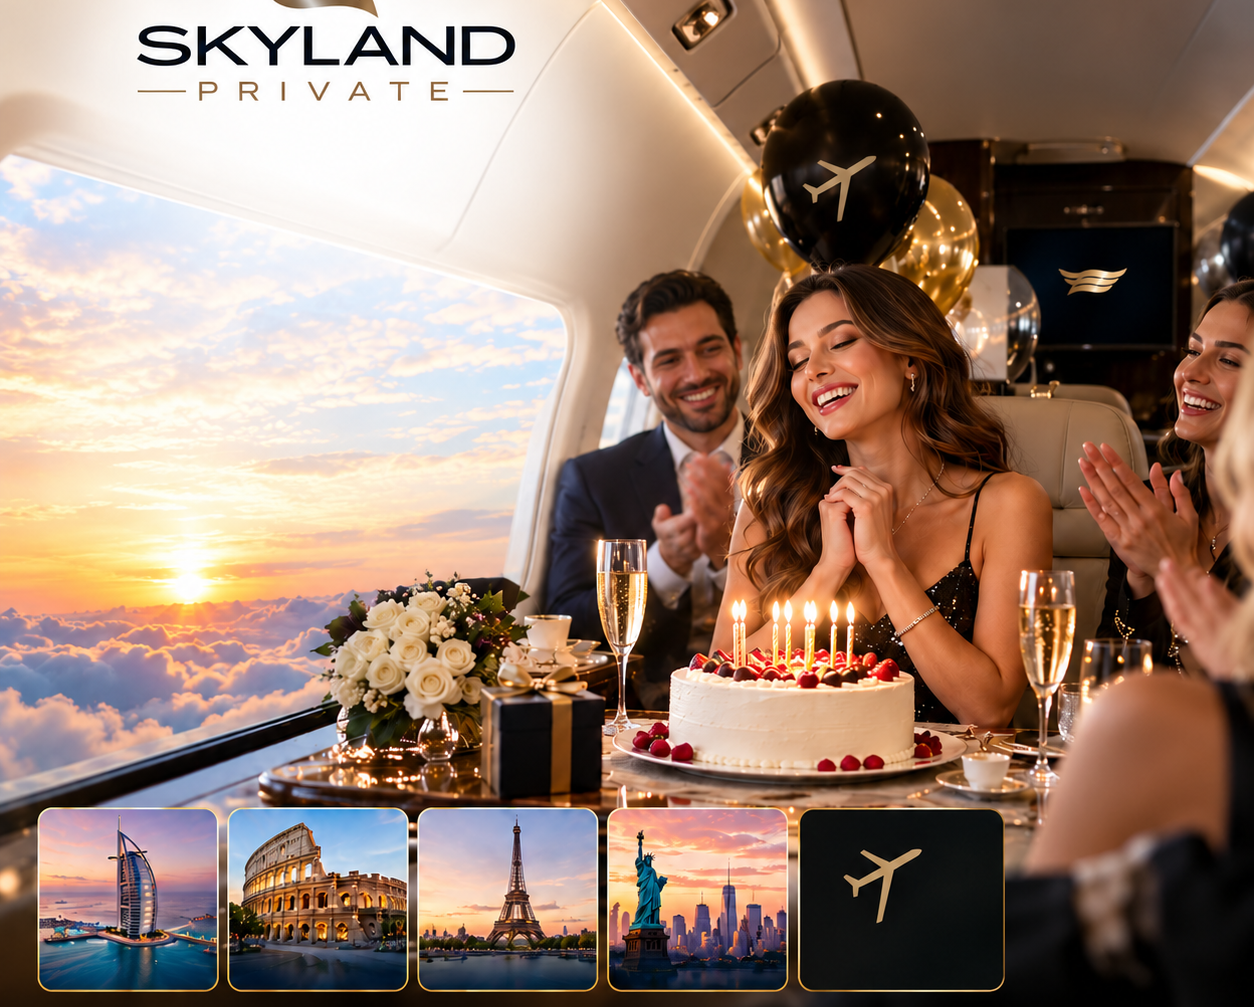
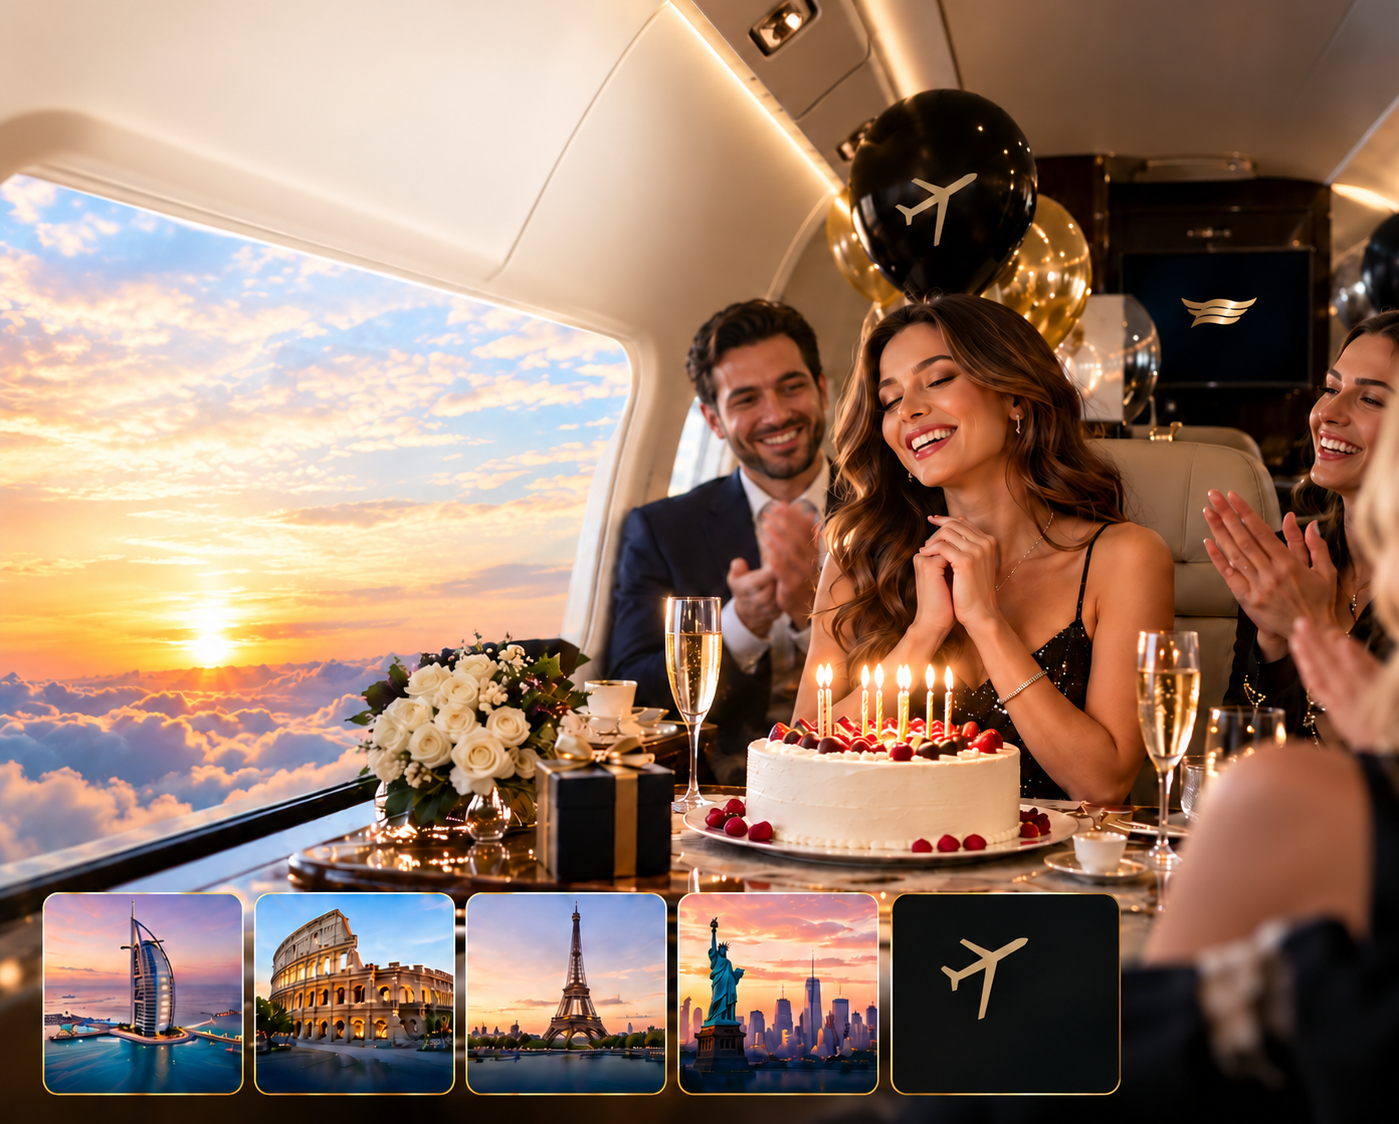
Add files via upload

diff --git a/skylandprivatedays.html b/skylandprivatedays.html
@@ -2,7 +2,7 @@
 <html lang="en">
 <head>
 <meta charset="utf-8">
-<meta name="viewport" content="width=device-width,initial-scale=1,viewport-fit=cover">
+<meta name="viewport" content="width=device-width,initial-scale=1,maximum-scale=1,user-scalable=no,viewport-fit=cover">
 <meta name="description" content="Skyland Private Days — private jet experiences for birthdays, proposals, anniversaries, honeymoons and special celebrations.">
 <title>Skyland Private Days | Special Occasions</title>
 <link rel="preconnect" href="https://fonts.googleapis.com">
@@ -27,7 +27,7 @@
 .trip{display:grid;grid-template-columns:1fr 1fr;gap:3px;background:rgba(255,255,255,.06);padding:3px;border-radius:8px;margin-bottom:11px}.trip button{border:0;background:transparent;color:#aaa;border-radius:6px;padding:10px;font-size:9px;font-weight:800;cursor:pointer}.trip button.active{background:var(--gold);color:#111}
 .fields{display:grid;grid-template-columns:1fr 1fr;gap:9px}.field.full{grid-column:1/-1}.field label{display:block;text-transform:uppercase;font-size:8px;letter-spacing:.10em;color:#aeb0b1;font-weight:700;margin:0 0 5px 2px}.field input,.field select,.field textarea{width:100%;border:1px solid rgba(255,255,255,.13);border-radius:8px;background:rgba(255,255,255,.075);color:#fff;min-height:44px;padding:0 11px;font-size:10px;outline:none}.field textarea{height:56px;padding:10px 11px;resize:vertical}.field input::placeholder,.field textarea::placeholder{color:#777}.field input:focus,.field select:focus,.field textarea:focus{border-color:var(--gold)}
 .submit{width:100%;margin-top:11px;min-height:48px;border:0;border-radius:8px;background:linear-gradient(135deg,#f0ca7e,#c99b50);color:#111;font-size:10px;font-weight:900;letter-spacing:.08em;cursor:pointer}.secure{text-align:center;color:#999;font-size:8px;margin-top:8px}.secure b{color:#ddd}
-.features{position:relative;z-index:6;max-width:1050px;margin:-3px auto 0;padding:16px 5% 23px;display:grid;grid-template-columns:repeat(4,1fr);border-top:1px solid rgba(255,255,255,.13)}.feature{display:flex;align-items:center;justify-content:center;gap:9px;border-right:1px solid rgba(255,255,255,.13)}.feature:last-child{border:0}.feature .icon{font-size:21px;color:var(--gold)}.feature b{display:block;font-size:9px;letter-spacing:.08em}.feature span{display:block;color:#999;font-size:8px;margin-top:2px}
+.features{position:relative;z-index:6;max-width:1050px;margin:-3px auto 0;padding:16px 5% 23px;display:grid;grid-template-columns:repeat(4,1fr);border-top:1px solid rgba(255,255,255,.13)}.feature{display:flex;align-items:center;justify-content:center;gap:8px;border-right:1px solid rgba(255,255,255,.13);min-width:0}.feature b{white-space:nowrap}.feature:last-child{border:0}.feature .icon{font-size:21px;color:var(--gold)}.feature b{display:block;font-size:9px;letter-spacing:.08em}.feature span{display:block;color:#999;font-size:8px;margin-top:2px}
 .section{background:#f5f1e8;color:#141616;padding:88px 6%}.section-inner{max-width:1180px;margin:auto}.kicker{font-size:9px;color:#ad8445;letter-spacing:.25em;font-weight:800;margin-bottom:13px}.section h2{font:500 clamp(39px,5vw,62px)/1.02 "Playfair Display",serif}.section h2 i{color:#ad8445}.lead{max-width:680px;color:#6e6b66;font-size:14px;line-height:1.7;margin:18px 0 32px}.cards{display:grid;grid-template-columns:repeat(5,1fr);gap:10px}.card{background:#fff;border:1px solid #e1dbcf;border-radius:14px;overflow:hidden}.cardimg{height:150px;background:linear-gradient(135deg,#b48c54,#252525);display:flex;align-items:flex-end;padding:13px;color:#fff;font:500 21px "Playfair Display",serif}.card:nth-child(1) .cardimg{background:linear-gradient(135deg,#5b3825,#d9a45b)}.card:nth-child(2) .cardimg{background:linear-gradient(135deg,#2d2430,#b78b61)}.card:nth-child(3) .cardimg{background:linear-gradient(135deg,#46352b,#e5b86f)}.card:nth-child(4) .cardimg{background:linear-gradient(135deg,#2386a0,#e9d29b)}.card:nth-child(5) .cardimg{background:linear-gradient(135deg,#18191b,#a97742)}.cardbody{padding:12px}.cardbody p{font-size:10px;line-height:1.5;color:#777}
 .dark{background:#090d10;color:#fff;padding:80px 6%}.darkinner{max-width:1180px;margin:auto;display:grid;grid-template-columns:1fr 1fr;gap:60px;align-items:center}.dark h2{font:500 clamp(38px,5vw,60px)/1.02 "Playfair Display",serif}.dark h2 i{color:var(--gold2)}.dark p{color:#aeb3b5;font-size:14px;line-height:1.7;margin:17px 0 23px}
 footer{padding:28px 6%;background:#050708;display:flex;justify-content:space-between;color:#777;font-size:8px}footer strong{color:#eee;letter-spacing:.18em}
@@ -51,23 +51,6 @@ footer{padding:28px 6%;background:#050708;display:flex;justify-content:space-bet
  .dark{padding:62px 18px}.darkinner{grid-template-columns:1fr;gap:15px}.dark h2{font-size:40px}footer{display:block;padding:24px 18px}footer span{display:block;margin-top:7px}.wa{right:10px;bottom:10px;font-size:7px}
 }
 @media(max-width:380px){.occasion-grid button{min-height:52px;font-size:6.5px}.occasion-grid button strong{font-size:13px}.fields{grid-template-columns:1fr}.field.full{grid-column:auto}.hero-inner{padding-top:41svh}}
-
-/* REAL SITE IMAGE CARDS */
-.cardimg{position:relative;background-size:cover!important;background-position:center!important;overflow:hidden}
-.cardimg:after{content:"";position:absolute;inset:0;background:linear-gradient(0deg,rgba(0,0,0,.72),rgba(0,0,0,.05) 70%);pointer-events:none}
-.cardimg span{position:relative;z-index:2}
-
-
-@media(max-width:650px){.visual-strip{padding:0 18px 55px;grid-template-columns:1fr}.visual-card{height:210px}}
-
-
-/* SPECIAL OCCASION CARDS — REAL IMAGES */
-.cardimg{position:relative;height:185px!important;background-size:cover!important;background-position:center!important;overflow:hidden;display:flex!important;align-items:flex-end!important;padding:14px!important}
-.cardimg:after{content:"";position:absolute;inset:0;background:linear-gradient(0deg,rgba(0,0,0,.78),rgba(0,0,0,.04) 72%);pointer-events:none}
-.cardimg span{position:relative;z-index:2;color:#fff;font:500 22px "Playfair Display",serif;text-shadow:0 2px 12px rgba(0,0,0,.55)}
-.card{transition:transform .25s ease,box-shadow .25s ease}.card:hover{transform:translateY(-4px);box-shadow:0 15px 35px rgba(0,0,0,.14)}
-@media(max-width:650px){.cards{grid-template-columns:1fr!important;gap:12px}.cardimg{height:190px!important}.card:nth-child(5){grid-column:auto!important}}
-
 </style>
 </head>
 <body>
@@ -126,10 +109,10 @@ footer{padding:28px 6%;background:#050708;display:flex;justify-content:space-bet
 </div>
 
 <div class="features">
-<div class="feature"><div class="icon">◎</div><div><b>WORLDWIDE</b><span>Special destinations</span></div></div>
-<div class="feature"><div class="icon">◇</div><div><b>FLEXIBLE</b><span>Your flight, your time</span></div></div>
-<div class="feature"><div class="icon">♛</div><div><b>VIP</b><span>Ground services</span></div></div>
-<div class="feature"><div class="icon">◷</div><div><b>24/7</b><span>Dedicated support</span></div></div>
+<div class="feature"><div class="icon">◎</div><b>WORLDWIDE</b></div>
+<div class="feature"><div class="icon">◇</div><b>FLEXIBLE</b></div>
+<div class="feature"><div class="icon">♛</div><b>VIP</b></div>
+<div class="feature"><div class="icon">◷</div><b>24/7</b></div>
 </div>
 </section>
 
@@ -137,8 +120,14 @@ footer{padding:28px 6%;background:#050708;display:flex;justify-content:space-bet
 <div class="kicker">PRIVATE DAYS EXPERIENCES</div>
 <h2>Every celebration deserves<br><i>a higher experience.</i></h2>
 <p class="lead">Tell us what you are celebrating. Skyland Private will shape the flight and the details around your moment.</p>
-
-</article></div></div></section>
+<div class="cards">
+<article class="card"><div class="cardimg">Birthday</div><div class="cardbody"><p>Celebrate above the clouds in complete privacy.</p></div></article>
+<article class="card"><div class="cardimg">Marriage Proposal</div><div class="cardbody"><p>Create an unforgettable setting for the perfect question.</p></div></article>
+<article class="card"><div class="cardimg">Anniversary</div><div class="cardbody"><p>Turn your journey together into a memory.</p></div></article>
+<article class="card"><div class="cardimg">Honeymoon</div><div class="cardbody"><p>Begin your next chapter in extraordinary style.</p></div></article>
+<article class="card"><div class="cardimg">Special Celebration</div><div class="cardbody"><p>Make any milestone feel truly exceptional.</p></div></article>
+</div>
+</div></section>
 
 <section class="dark" id="contact"><div class="darkinner">
 <div><div class="kicker">YOUR MOMENT · YOUR FLIGHT</div><h2>Designed around you.<br><i>Down to every detail.</i></h2></div>
